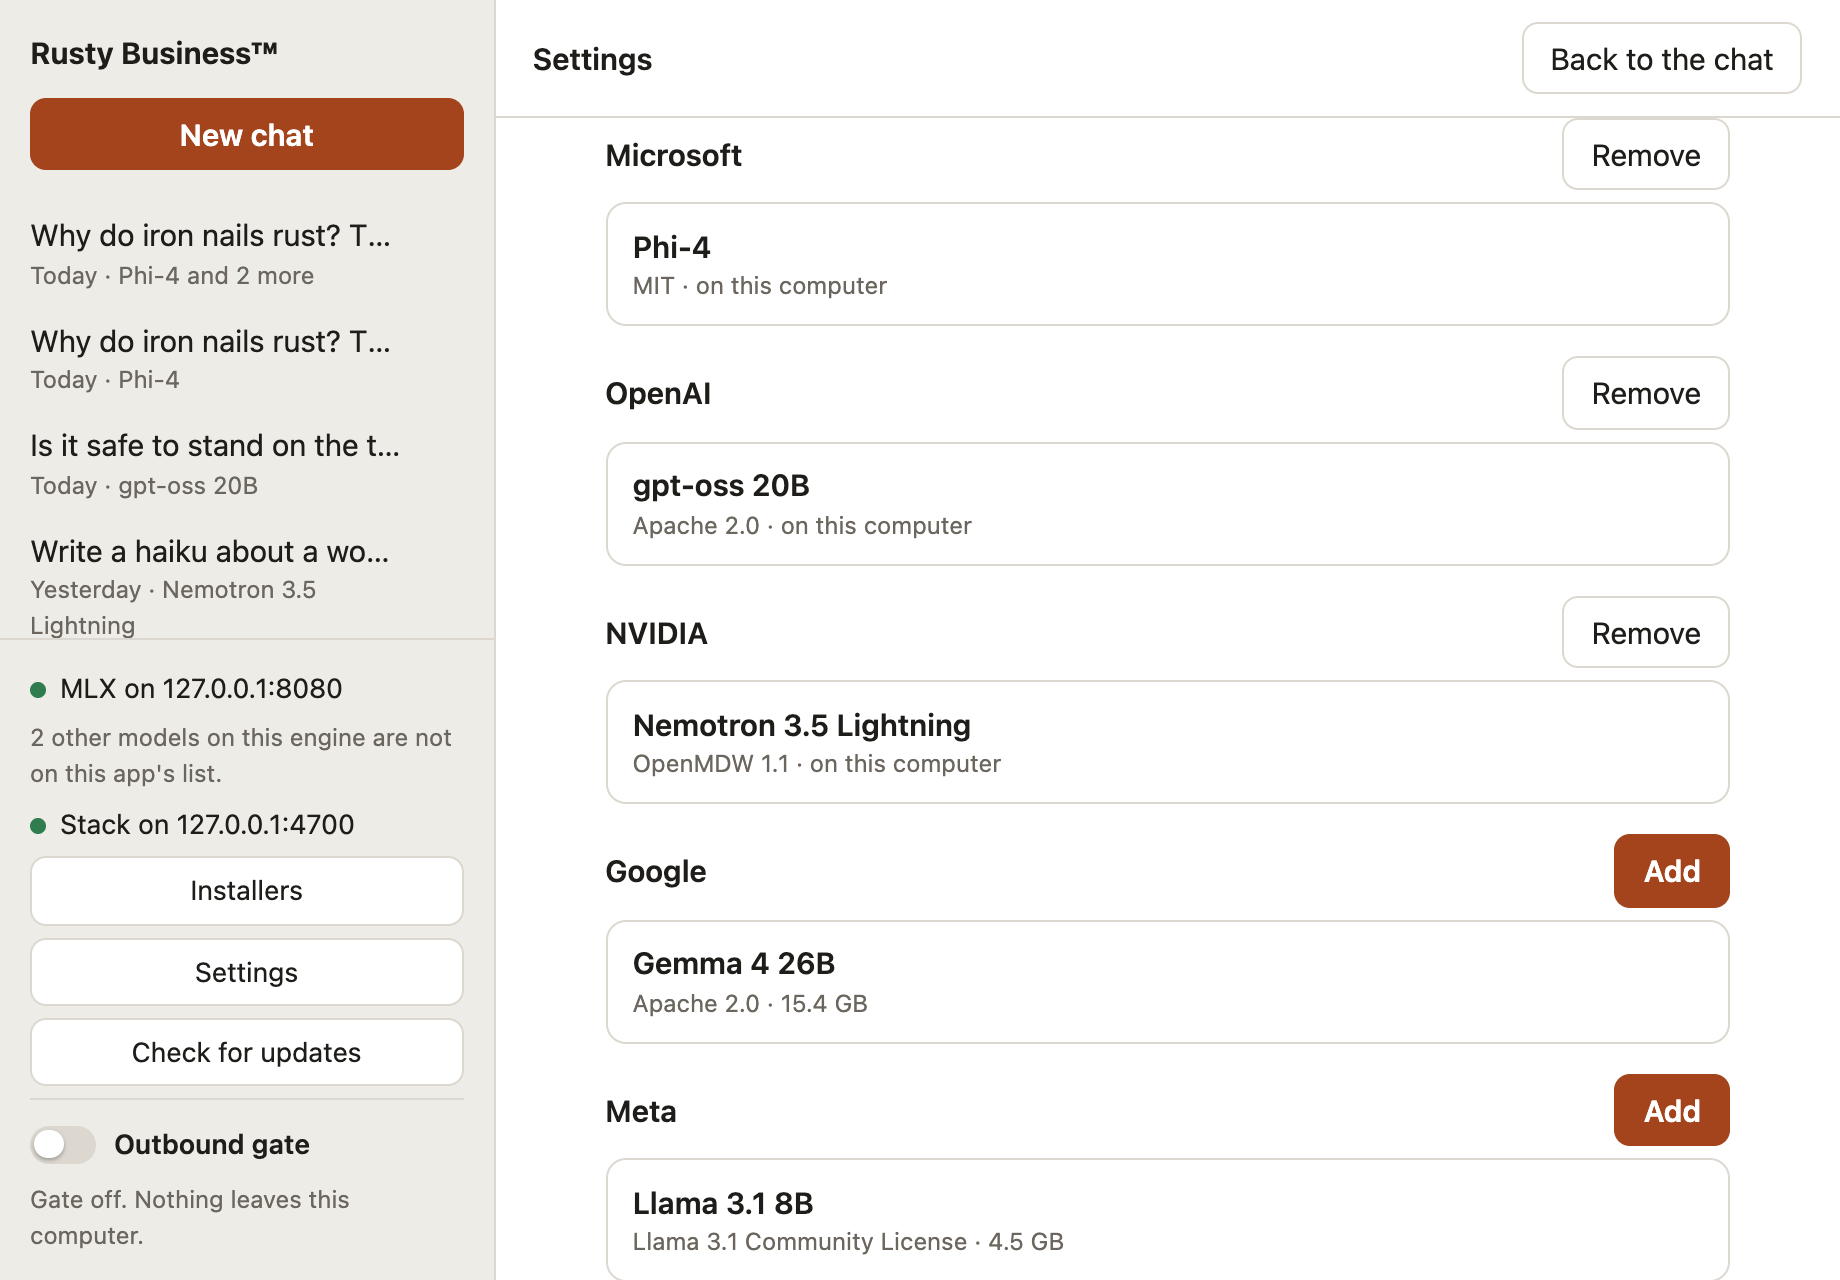
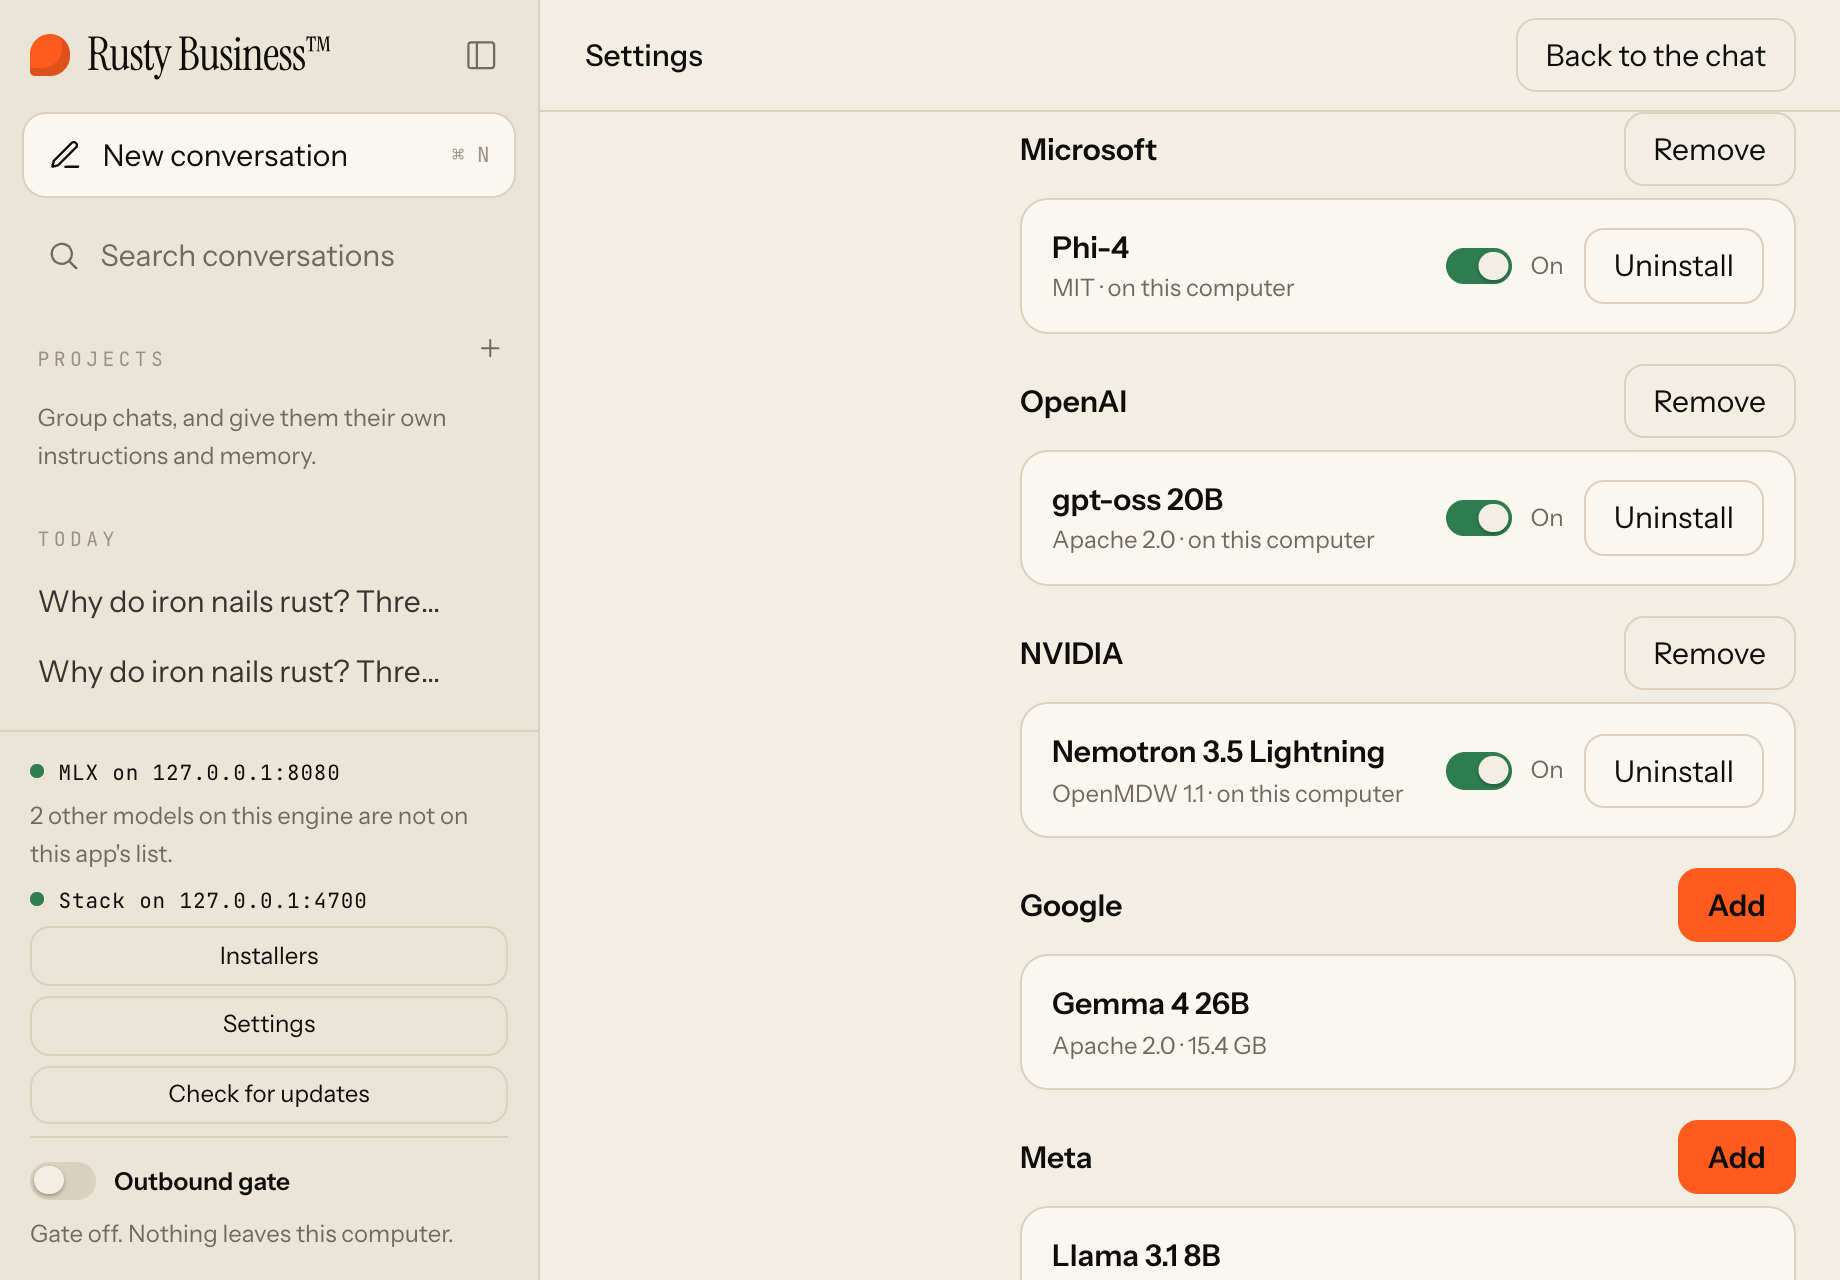
The roadmap lists the switch and Uninstall, and the Settings picture shows them

diff --git a/docs/screenshots/README.md b/docs/screenshots/README.md
@@ -70,16 +70,18 @@ off, so Install waits. A model already on this computer whose maker is not
 added has a Show button instead. Grok, GPT, Claude, and Gemini are added below,
 under Outside engines, each on its own card.
 
-## Settings: the model makers
+## Settings: the models, and their makers
 
-[![Settings in the light theme, with the five model makers: Microsoft, OpenAI, and NVIDIA picked, each with a Remove button and its model on this computer, and Google and Meta not picked, each with an Add button and its model's license and download size](settings.png)](settings.png?raw=true)
+[![Settings, Models, in the light theme, with the five model makers: Microsoft's Phi-4, OpenAI's gpt-oss 20B, and NVIDIA's Nemotron 3.5 Lightning on this computer, each with its switch on and an Uninstall button, and Google and Meta not picked, each with an Add button and its model's license and download size](settings.png)](settings.png?raw=true)
 
-Settings, opened from the foot of the window, lists every maker on the app's
-list with its models. Add and Remove pick a maker with one click. Here the
+Settings, opened from the foot of the window, lists under Models every maker
+on the app's list with its models. Add and Remove pick a maker with one click. Here the
 makers picked are the three whose models are on this computer, as the app
 picks them before you do. Removing one hides its models and deletes nothing,
-and saved chats still name them. To download a model, Settings points to
-the Installers page.
+and saved chats still name them. Each model on this computer has a switch:
+switched off, it is left out of questions, grading, and comparisons, and its
+files stay. Uninstall asks first, then moves the model to the Trash. To
+download a model, Settings points to the Installers page.
 
 ## How these were made
 
@@ -132,5 +134,5 @@ nowhere else.
 | `engine-off.png` | The app with no engine answering                               |
 | `first-run.png`  | The first run, with none of the app's models on this computer  |
 | `installers.png` | The Installers page, with every maker's models                 |
-| `settings.png`   | Settings, with the five model makers                           |
+| `settings.png`   | Settings, Models, with a switch and Uninstall for each model   |
 | `chats.json`     | What the pictures are made from: the engine's report, the models offered, and five recorded chats |

diff --git a/README.md b/README.md
@@ -67,9 +67,9 @@ Select a picture to open it full size.
 | ---------------------------------------- | ------------------------------------------- |
 | [![The first run in the dark theme, with none of the app's models on this computer: Microsoft ticked under Show models from, and OpenAI, NVIDIA, Google, and Meta not, a Turn on the gate button, Microsoft's Phi-4 at 8.3 GB with a Download button that waits for the outbound gate, and a line saying more models, and the outside engines, are on the Installers page](docs/screenshots/first-run.png)](docs/screenshots/first-run.png?raw=true) | [![The Installers page in the dark theme, with the five model makers: Microsoft's Phi-4, OpenAI's gpt-oss 20B, and NVIDIA's Nemotron 3.5 Lightning on this computer, Google's Gemma 4 26B and Meta's Llama 3.1 8B marked Not added, each with its license, its download size, and an Install button that waits for the outbound gate, and Outside engines below](docs/screenshots/installers.png)](docs/screenshots/installers.png?raw=true) |
 
-| Settings: add or remove a maker |
-| ------------------------------- |
-| [![Settings in the light theme, with the five model makers: Microsoft, OpenAI, and NVIDIA picked, each with a Remove button and its model on this computer, and Google and Meta not picked, each with an Add button and its model's license and download size](docs/screenshots/settings.png)](docs/screenshots/settings.png?raw=true) |
+| Settings: switch a model off, or uninstall it |
+| --------------------------------------------- |
+| [![Settings, Models, in the light theme, with the five model makers: Microsoft's Phi-4, OpenAI's gpt-oss 20B, and NVIDIA's Nemotron 3.5 Lightning on this computer, each with its switch on and an Uninstall button, and Google and Meta not picked, each with an Add button and its model's license and download size](docs/screenshots/settings.png)](docs/screenshots/settings.png?raw=true) |
 
 What each picture shows, and how they are made, is in
 [docs/screenshots](docs/screenshots).

diff --git a/ROADMAP.md b/ROADMAP.md
@@ -148,3 +148,8 @@ Decided, and parked until it is picked up again. A pin keeps its number.
 - **Formatted replies.** Replies show their Markdown, tables, code, and math.
 - **Attached files.** PDF, Word, PowerPoint, spreadsheets, CSV, and text or
   code files are read into text on this computer and go with the message.
+- **Switching a model off, and uninstalling one.** In Settings, under
+  Models, each model has a switch, the outside engines' too. A model
+  switched off is left out of questions, grading, and comparisons, and its
+  files stay. Uninstall asks first, then moves a model on this computer to
+  the Trash, or the Recycle Bin on Windows. Nothing is deleted.
